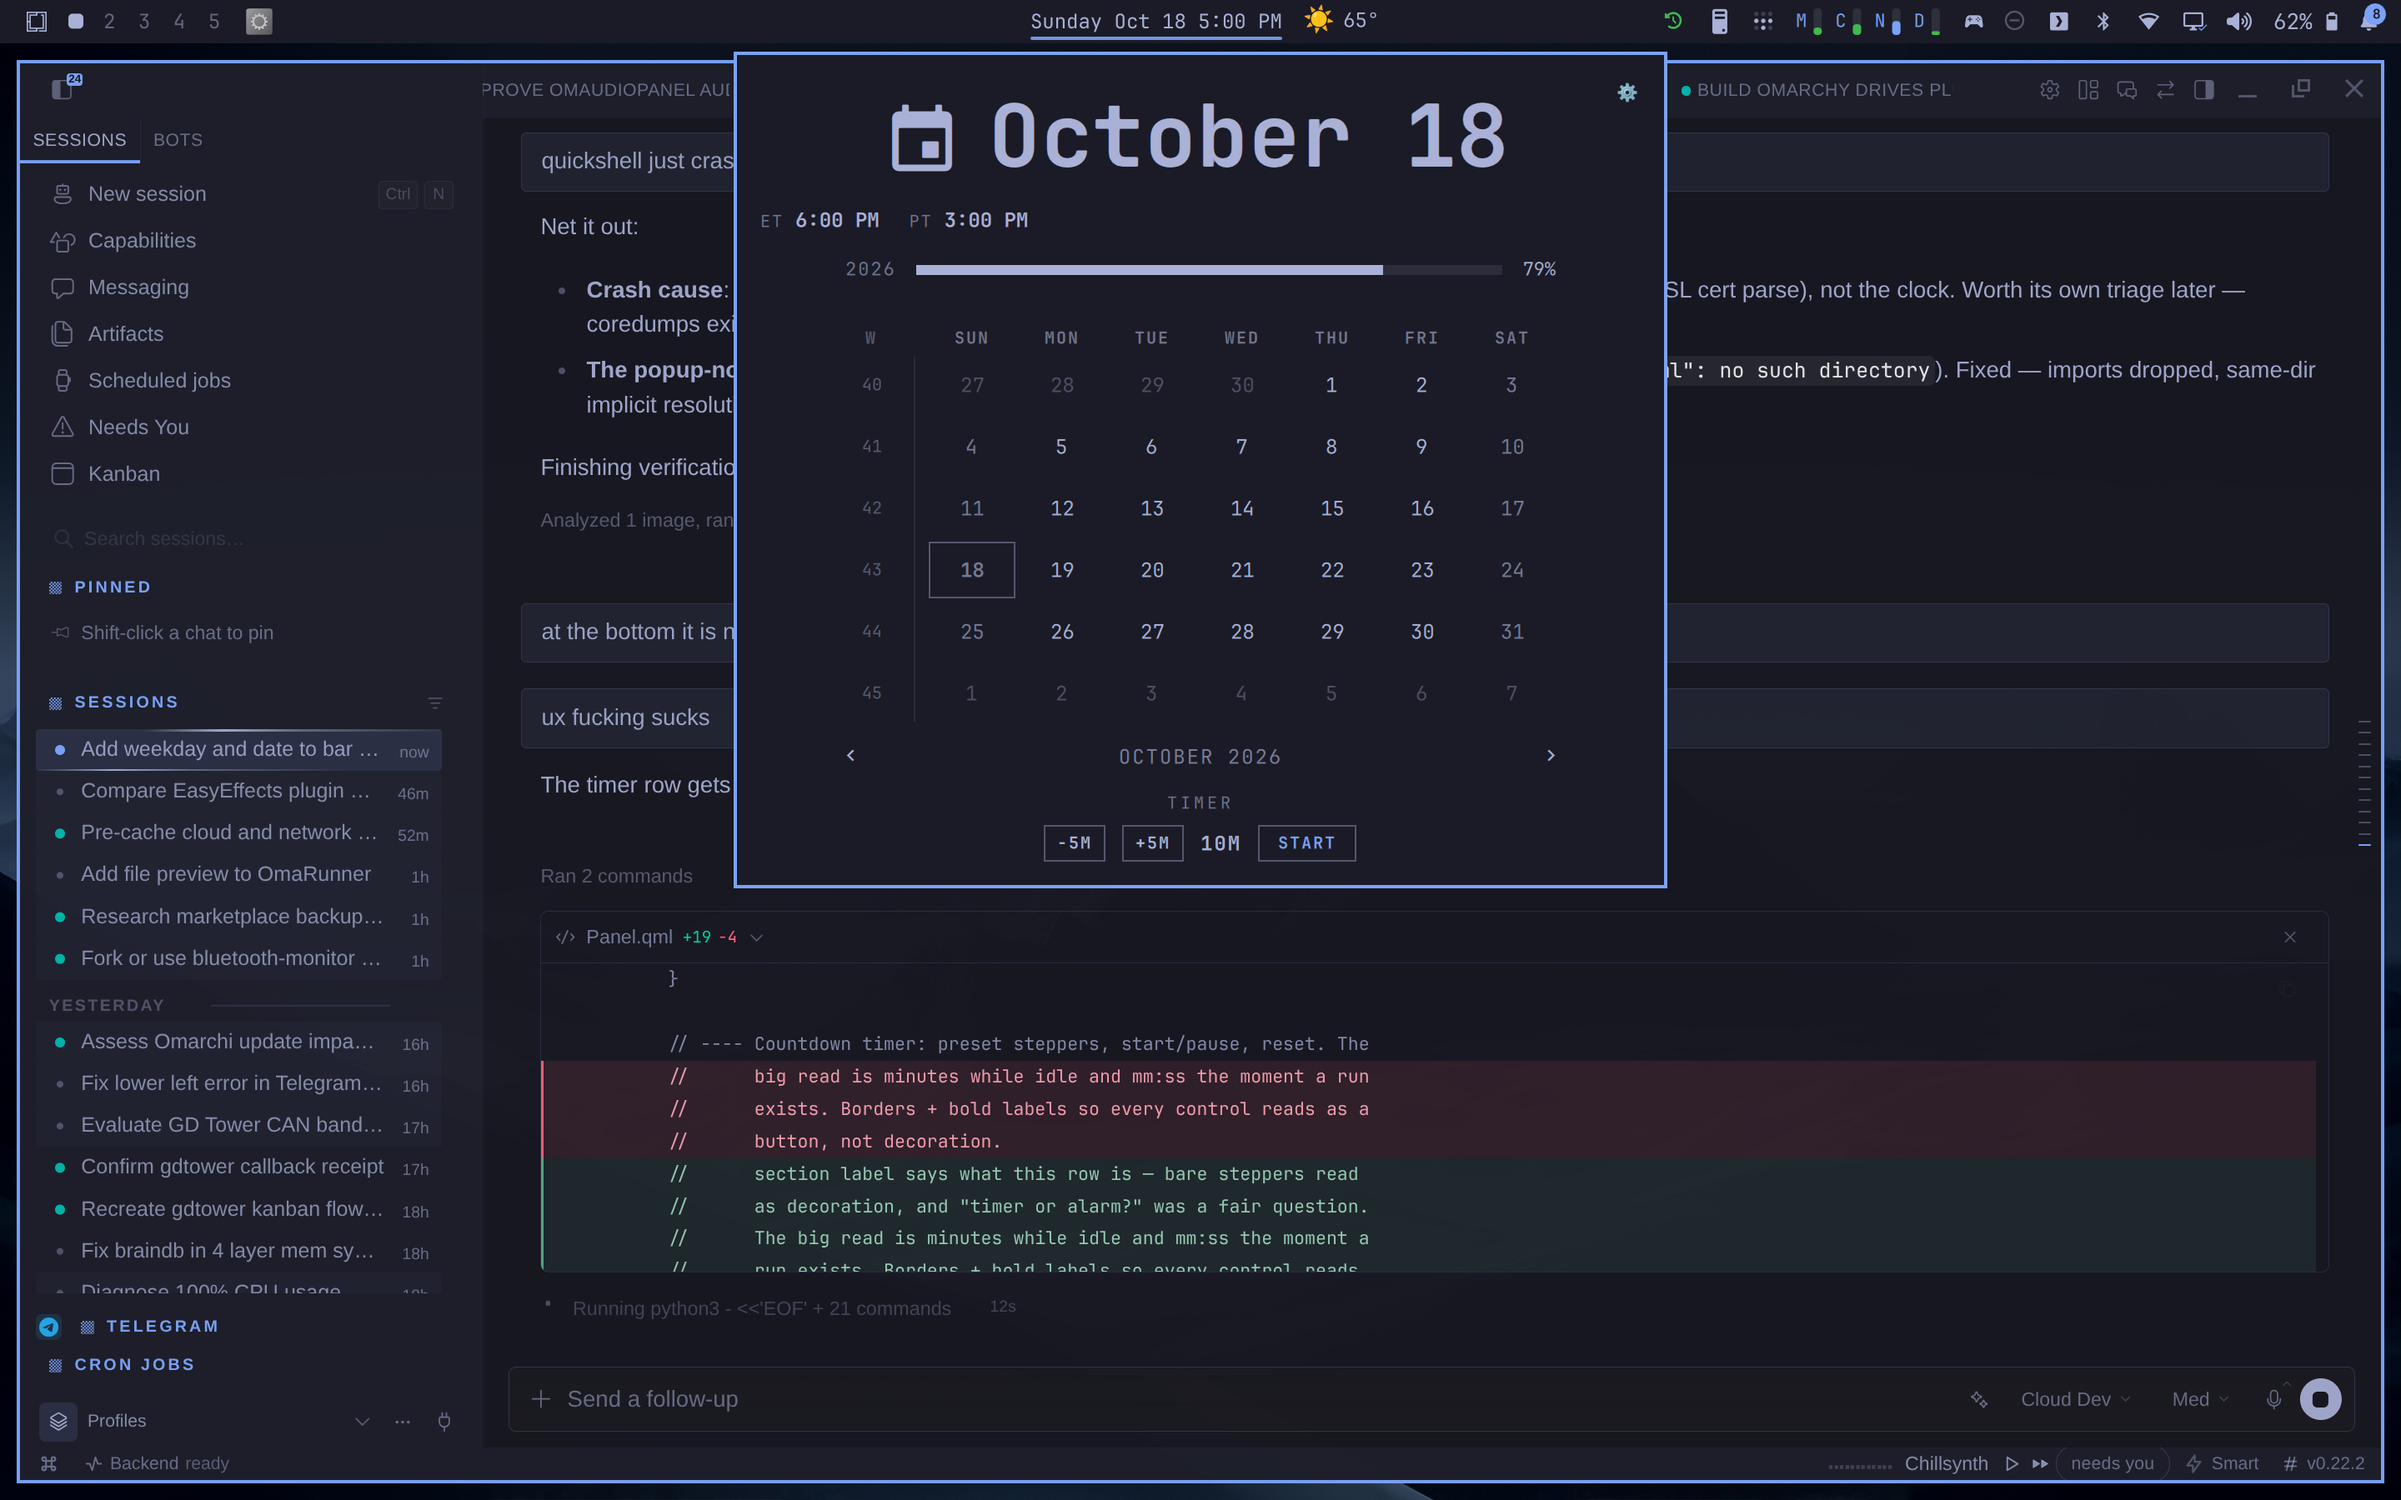
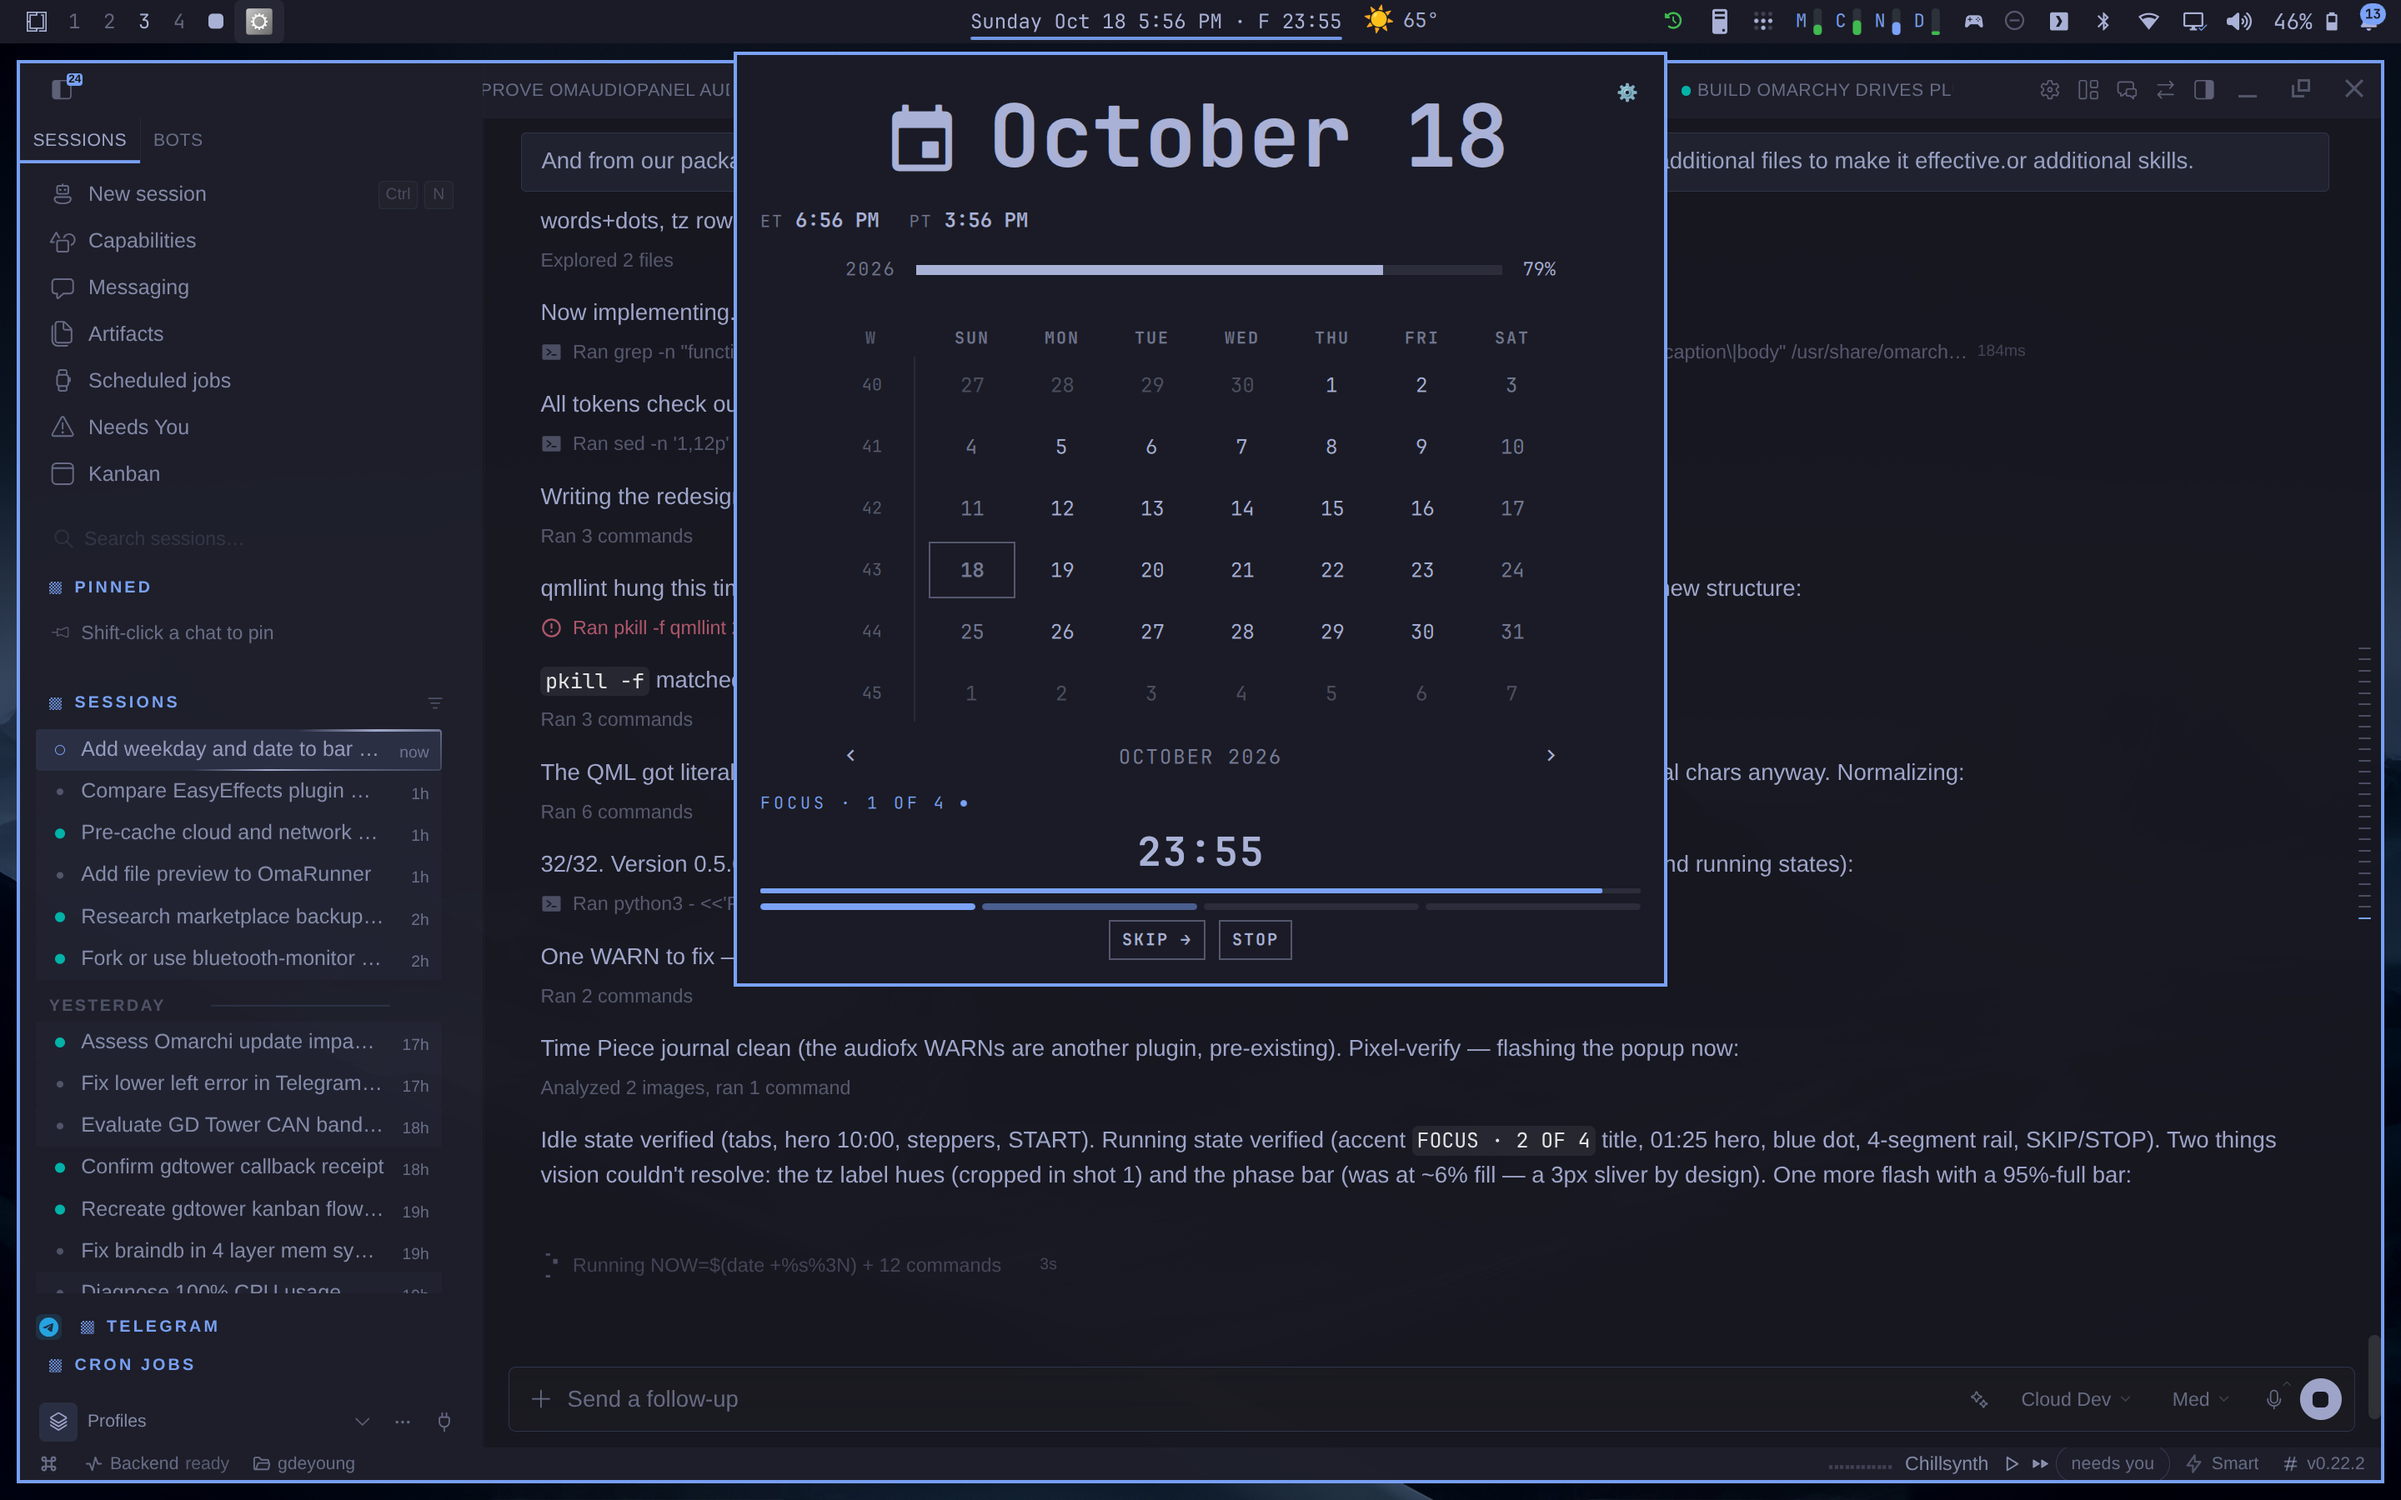
v0.5.0 packaging: billboard (rebuilt test card), README features 6-7, preview with redesigned timer section

diff --git a/billboard.html b/billboard.html
@@ -36,7 +36,7 @@ p.intro{position:absolute;left:100px;top:400px;width:820px;font-size:22px;line-h
   </div>
   <div class="col">
     <div><b>◆</b>World clocks — search any city, live times</div>
-    <div><b>◆</b>Countdown timer · pomodoro 25/5</div>
+    <div><b>◆</b>Timer + pomodoro · redesigned section</div>
     <div><b>◆</b>Zero network — one read-only date call</div>
     <div><b>◆</b>MIT — rebases onto stock clock</div>
   </div>
@@ -44,7 +44,7 @@ p.intro{position:absolute;left:100px;top:400px;width:820px;font-size:22px;line-h
 <div class="rule"></div>
 <div class="footer mono">
   <span>what day it is, at a glance</span>
-  <span class="id">gdeyoung.timepiece · 0.4.0</span>
+  <span class="id">gdeyoung.timepiece · 0.5.0</span>
   <span>gdeyoung/omarchy-timepiece</span>
 </div>
 <div class="cap mono" id="capA">THE CALENDAR — DATE TOGGLE</div>
@@ -54,6 +54,6 @@ p.intro{position:absolute;left:100px;top:400px;width:820px;font-size:22px;line-h
 <span class="p">$</span> omarchy bar set gdeyoung.timepiece showDate false<br>
 Set showDate on gdeyoung.timepiece&nbsp;&nbsp;<span class="ok">→ Sunday 4:09 PM</span><br>
 <span class="p">$</span> node --test test/<br>
-ℹ tests 31ℹ tests 28&nbsp;&nbsp;ℹ pass 28&nbsp;&nbsp;ℹ fail 0nbsp;ℹ tests 28&nbsp;&nbsp;ℹ pass 28&nbsp;&nbsp;ℹ fail 0nbsp;ℹ pass 31ℹ tests 28&nbsp;&nbsp;ℹ pass 28&nbsp;&nbsp;ℹ fail 0nbsp;ℹ tests 28&nbsp;&nbsp;ℹ pass 28&nbsp;&nbsp;ℹ fail 0nbsp;ℹ fail 0
+ℹ tests 32&nbsp;&nbsp;ℹ pass 32&nbsp;&nbsp;ℹ fail 0
 </div></div>
 </body></html>

diff --git a/README.md b/README.md
@@ -31,14 +31,26 @@ Four things, everything else is stock:
    label pings `· done` for two minutes and the popup shows `00:00` until
    reset. Timer state persists in the widget entry, so a run survives a
    shell restart.
-5. **A pomodoro mode** — one click on `POMODORO 25/5` runs the classic cycle
-   unattended: focus blocks alternate with breaks, every 4th break is a
-   long one (15 min), and each phase flip fires a desktop notification
+5. **A pomodoro mode** — `START CYCLE` runs the classic pomodoro unattended:
+   focus blocks alternate with breaks, every 4th break is a long one
+   (15 min), and each phase flip fires a desktop notification
    (`omarchy-notification-send`). The bar shows phase + remaining time
-   (`· F 17:32`, `· B 3:10`, `· L 14:59`); the popup shows `FOCUS · 2 OF 4`
-   with `SKIP →` and `STOP`. Focus and break lengths are steppers in the
-   settings view. The manual timer and pomodoro are mutually exclusive —
-   starting one stops the other.
+   (`· F 17:32`, `· B 3:10`, `· L 14:59`). Focus and break lengths are
+   steppers in the settings view. The manual timer and pomodoro are mutually
+   exclusive — starting one stops the other.
+6. **A redesigned timer section** (v0.5, spec in `design/timer-ux-spec.md`)
+   — the readout *is* the section: a 24px `mm:ss` hero flanked by `−5M/+5M`
+   steppers in fixed slots, `TIMER | POMODORO` mode tabs while idle
+   (hidden while anything runs — mutual exclusion made visible), a thin
+   remaining-time phase bar, a 4-segment rail for the set (accent = focus
+   blocks done, half-alpha = in progress), and phase coloring always
+   co-coded with the phase word (WCAG 1.4.1): focus = theme accent,
+   break = green, long break = violet, done = urgent. Digits stay
+   foreground in every state.
+7. **World-clock label hues** — each configured zone gets a stable
+   categorical color on its label (cyan, amber, rose, blue, orange); the
+   time itself stays foreground. Greens/violets are deliberately excluded
+   so zones never read as pomodoro phases.
 
 `showDate: false` masks the date out of *whatever* format the label is in —
 `dddd MMM d h:mm AP` becomes `dddd h:mm AP`, `yyyy-MM-dd HH:mm` becomes
